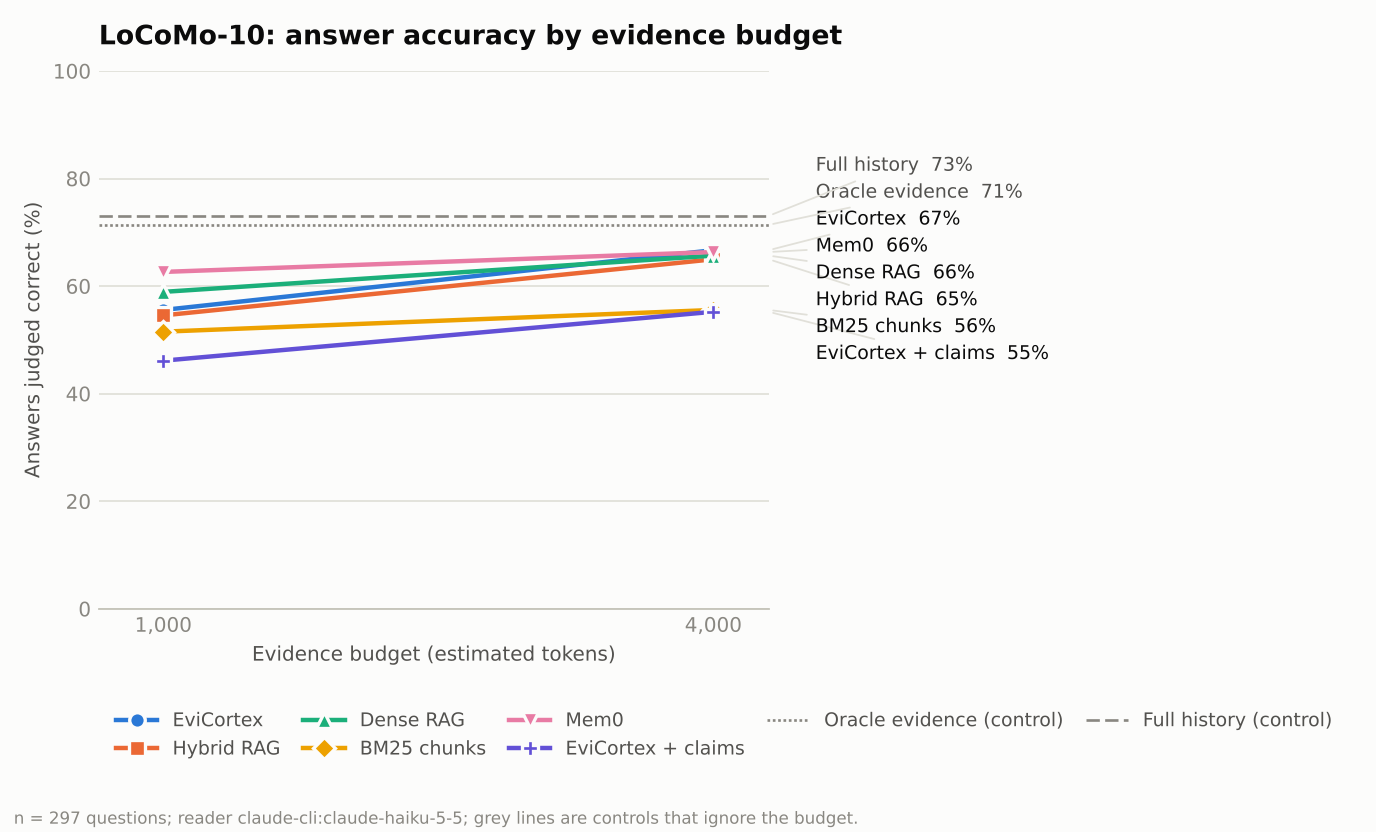
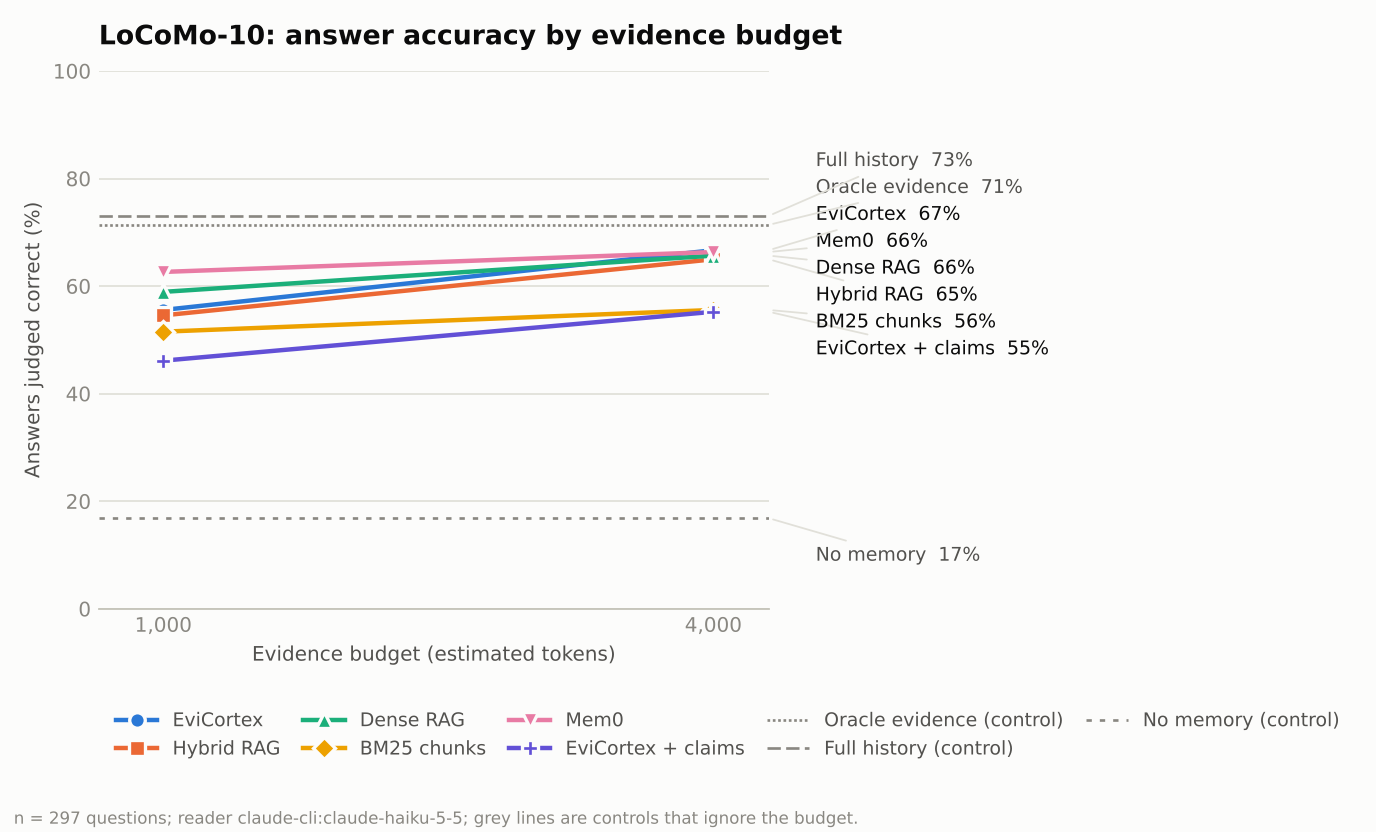
Address review: unknown costs, empty audits, no-memory line in figures
- A provider that reports no price now makes a cost total unknown (null)
  instead of zero, in the LLM cache totals, the reader cost, the Mem0 bridge
  and the report's ingestion sums.
- The audit stage writes undefined metrics instead of dividing by zero when
  every answer was graded by rule.
- The accuracy figures now draw the no-memory control, which was run per
  budget and so was dropped. Both accuracy-by-budget figures are regenerated;
  no number changes.

Claude-Session: https://claude.ai/code/session_018MReoqZsih7M7Wtzn1n4d2

diff --git a/benchmarks/competitive/mem0_system.py b/benchmarks/competitive/mem0_system.py
@@ -94,6 +94,7 @@ class _LLMMeter:
         self.input_tokens = 0
         self.output_tokens = 0
         self.cost_usd = 0.0
+        self.unpriced_calls = 0  # provider reported no cost for these
         self.json_requests = 0
         self.json_parse_failures = 0
         self.fenced_responses = 0
@@ -106,6 +107,7 @@ class _LLMMeter:
                 "input_tokens": self.input_tokens,
                 "output_tokens": self.output_tokens,
                 "cost_usd": self.cost_usd,
+                "unpriced_calls": self.unpriced_calls,
                 "json_requests": self.json_requests,
                 "json_parse_failures": self.json_parse_failures,
                 "fenced_responses": self.fenced_responses,
@@ -185,6 +187,7 @@ def _install_llm_provider(llm: CachedLLM, meter: _LLMMeter, max_tokens: int, key
                 input_tokens=reply.input_tokens,
                 output_tokens=reply.output_tokens,
                 cost_usd=float(reply.cost_usd or 0.0),
+                unpriced_calls=1 if reply.cost_usd is None else 0,
                 json_requests=1 if wants_json else 0,
                 json_parse_failures=0 if parsed_ok else 1,
                 fenced_responses=1 if (wants_json and fenced) else 0,
@@ -350,7 +353,11 @@ class Mem0System:
                 "fresh_llm_calls": int(after["fresh_calls"] - before["fresh_calls"]),
                 "input_tokens": int(after["input_tokens"] - before["input_tokens"]),
                 "output_tokens": int(after["output_tokens"] - before["output_tokens"]),
-                "cost_usd": after["cost_usd"] - before["cost_usd"],
+                "cost_usd": (
+                    None
+                    if after["unpriced_calls"] > before["unpriced_calls"]
+                    else after["cost_usd"] - before["cost_usd"]
+                ),
                 "json_parse_failures": int(
                     after["json_parse_failures"] - before["json_parse_failures"]
                 ),
@@ -430,7 +437,11 @@ class Mem0System:
             "fresh_llm_calls_this_process": int(self._meter.snapshot()["fresh_calls"]),
             "input_tokens": sum(r["input_tokens"] for r in rows),
             "output_tokens": sum(r["output_tokens"] for r in rows),
-            "cost_usd": round(sum(r["cost_usd"] for r in rows), 4),
+            "cost_usd": (
+                None
+                if any(r["cost_usd"] is None for r in rows)
+                else round(sum(r["cost_usd"] for r in rows), 4)
+            ),
             "wall_seconds": round(sum(r["wall_seconds"] for r in rows), 2),
             "json_parse_failures": sum(r.get("json_parse_failures", 0) for r in rows),
             "memories_stored": stored,
@@ -499,7 +510,12 @@ class Mem0PerConversation:
         total: dict[str, Any] = {}
         for cost in self._costs.values():
             for key, value in cost.items():
+                if value is None and key == "cost_usd":
+                    total[key] = None
+                    continue
                 if isinstance(value, bool) or not isinstance(value, (int, float)):
+                    continue
+                if key in total and total[key] is None:
                     continue
                 total[key] = round(total.get(key, 0) + value, 6)
         total["conversations"] = len(self._costs)

diff --git a/tests/test_competitive.py b/tests/test_competitive.py
@@ -348,6 +348,17 @@ class LLMTests(unittest.TestCase):
             self.assertEqual(shard.usage()["calls"], 2)
             self.assertEqual(shard.usage(used_only=True)["calls"], 1)
 
+    def test_unknown_provider_cost_is_not_reported_as_zero(self) -> None:
+        class Unpriced(_FakeClient):
+            def complete(self, *, system: str, prompt: str, max_tokens: int = 512) -> LLMResponse:
+                return LLMResponse("ok", "model", 3, 1, None, 1.0)
+
+        with tempfile.TemporaryDirectory() as directory:
+            cached = CachedLLM(Unpriced(), Path(directory) / "cache.jsonl")
+            cached.complete(system="s", prompt="p")
+            self.assertIsNone(cached.usage()["cost_usd"])
+            self.assertEqual(cached.usage()["input_tokens"], 3)
+
     def test_provider_specs(self) -> None:
         self.assertEqual(make_client("claude-cli:m").identity, "claude-cli:m")
         self.assertEqual(make_client("anthropic:m").identity, "anthropic:m")
@@ -431,6 +442,26 @@ class EvaluateTests(unittest.TestCase):
         self.assertEqual(len(seen), 1)
         for name in ("evicortex", "mem0", "hybrid_rag", "1000"):
             self.assertNotIn(name, seen[0])
+
+    def test_audit_with_no_judge_graded_answers_reports_undefined_metrics(self) -> None:
+        with tempfile.TemporaryDirectory() as directory:
+            run = Path(directory)
+            row = {"key": "q1|no_memory|1000", "system": "no_memory", "category": "single-hop",
+                   "question": "Q?", "gold_answer": "G", "answer": "I don't know.",
+                   "is_abstention": False, "abstained": True, "verdict": "incorrect",
+                   "graded_by": "rule:exact-dont-know"}
+            (run / "judgments.jsonl").write_text(json.dumps(row) + "\n", encoding="utf-8")
+            original = evaluate.make_client
+            evaluate.make_client = lambda spec: _FakeClient()
+            try:
+                evaluate.stage_audit(argparse.Namespace(
+                    run=str(run), auditor="fake:auditor", sample=10, seed=1, batch_size=10, workers=1))
+            finally:
+                evaluate.make_client = original
+            audit = json.loads((run / "audit.json").read_text(encoding="utf-8"))
+        self.assertEqual(audit["sampled_items"], 0)
+        self.assertIsNone(audit["agreement"])
+        self.assertIsNone(audit["cohen_kappa"])
 
     def test_cohen_kappa(self) -> None:
         agree = [("correct", "correct"), ("incorrect", "incorrect")] * 5

diff --git a/benchmarks/competitive/report.py b/benchmarks/competitive/report.py
@@ -133,7 +133,13 @@ def summarize_run(run: Path) -> tuple[dict[str, Any], list[dict[str, Any]]]:
                  "config": info["config"], "ingestion": {}},
             )
             for key, number in info["ingestion"].items():
+                if number is None and key.endswith("cost_usd"):
+                    # Unknown in one shard means unknown overall, never zero.
+                    entry["ingestion"][key] = None
+                    continue
                 if isinstance(number, bool) or not isinstance(number, (int, float)):
+                    continue
+                if key in entry["ingestion"] and entry["ingestion"][key] is None:
                     continue
                 entry["ingestion"][key] = round(entry["ingestion"].get(key, 0) + number, 4)
 
@@ -190,7 +196,11 @@ def summarize_run(run: Path) -> tuple[dict[str, Any], list[dict[str, Any]]]:
             "mean_reader_input_tokens": round(
                 statistics.fmean(row["reader_input_tokens"] for row in rows), 1
             ),
-            "reader_cost_usd": round(sum(row["reader_cost_usd"] or 0.0 for row in rows), 4),
+            "reader_cost_usd": (
+                None
+                if any(row["reader_cost_usd"] is None for row in rows)
+                else round(sum(row["reader_cost_usd"] for row in rows), 4)
+            ),
         }
         if system != REFERENCE_SYSTEM:
             # Budget-exempt controls are compared with EviCortex at every budget.

diff --git a/benchmarks/competitive/evaluate.py b/benchmarks/competitive/evaluate.py
@@ -333,6 +333,11 @@ def stage_audit(arguments: argparse.Namespace) -> int:
         auditor, sample, seed=arguments.seed + 1, batch_size=arguments.batch_size, workers=arguments.workers
     )
     pairs = [(row["verdict"], verdicts[row["key"]]) for row in sample]
+
+    def rate(count: int) -> float | None:
+        # Undefined, not an error, when every answer was graded by rule.
+        return count / len(pairs) if pairs else None
+
     disagreements = [
         {
             "key": row["key"],
@@ -359,10 +364,10 @@ def stage_audit(arguments: argparse.Namespace) -> int:
         "auditor": auditor.identity,
         "sampled_items": len(sample),
         "sampling": f"seeded, up to {per_system} judge-graded answers per system",
-        "agreement": sum(left == right for left, right in pairs) / len(pairs),
+        "agreement": rate(sum(left == right for left, right in pairs)),
         "cohen_kappa": cohen_kappa(pairs),
-        "judge_correct_rate": sum(left == "correct" for left, _ in pairs) / len(pairs),
-        "auditor_correct_rate": sum(right == "correct" for _, right in pairs) / len(pairs),
+        "judge_correct_rate": rate(sum(left == "correct" for left, _ in pairs)),
+        "auditor_correct_rate": rate(sum(right == "correct" for _, right in pairs)),
         "by_system": by_system_agreement,
         "disagreements": disagreements,
         "auditor_usage": auditor.usage(),

diff --git a/benchmarks/competitive/llm.py b/benchmarks/competitive/llm.py
@@ -343,7 +343,7 @@ class CachedLLM:
             with self._lock:
                 self._in_flight.pop(key).set()
 
-    def usage(self, *, used_only: bool = False) -> dict[str, float | int]:
+    def usage(self, *, used_only: bool = False) -> dict[str, float | int | None]:
         """Totals over the whole cache, or over the requests this instance served.
 
         ``used_only`` is the logical cost of the current run: it counts each
@@ -359,5 +359,10 @@ class CachedLLM:
             "calls": len(rows),
             "input_tokens": sum(int(row["input_tokens"]) for row in rows),
             "output_tokens": sum(int(row["output_tokens"]) for row in rows),
-            "cost_usd": round(sum(float(row["cost_usd"] or 0.0) for row in rows), 4),
+            # A provider that reports no price makes the total unknown, not zero.
+            "cost_usd": (
+                None
+                if any(row["cost_usd"] is None for row in rows)
+                else round(sum(float(row["cost_usd"]) for row in rows), 4)
+            ),
         }

diff --git a/benchmarks/competitive/figures.py b/benchmarks/competitive/figures.py
@@ -113,7 +113,8 @@ def write_figures(payload: dict[str, Any], out: Path) -> None:
             accuracy: dict[str, dict[int, float]] = {}
             controls: dict[str, float] = {}
             for cell in answers:
-                if cell["budget"] is None:
+                if cell["budget"] is None or cell["system"] in CONTROLS:
+                    # No memory is run per budget but is the same at every budget.
                     controls[cell["system"]] = cell["accuracy"]["mean"]
                 else:
                     accuracy.setdefault(cell["system"], {})[cell["budget"]] = cell["accuracy"]["mean"]
